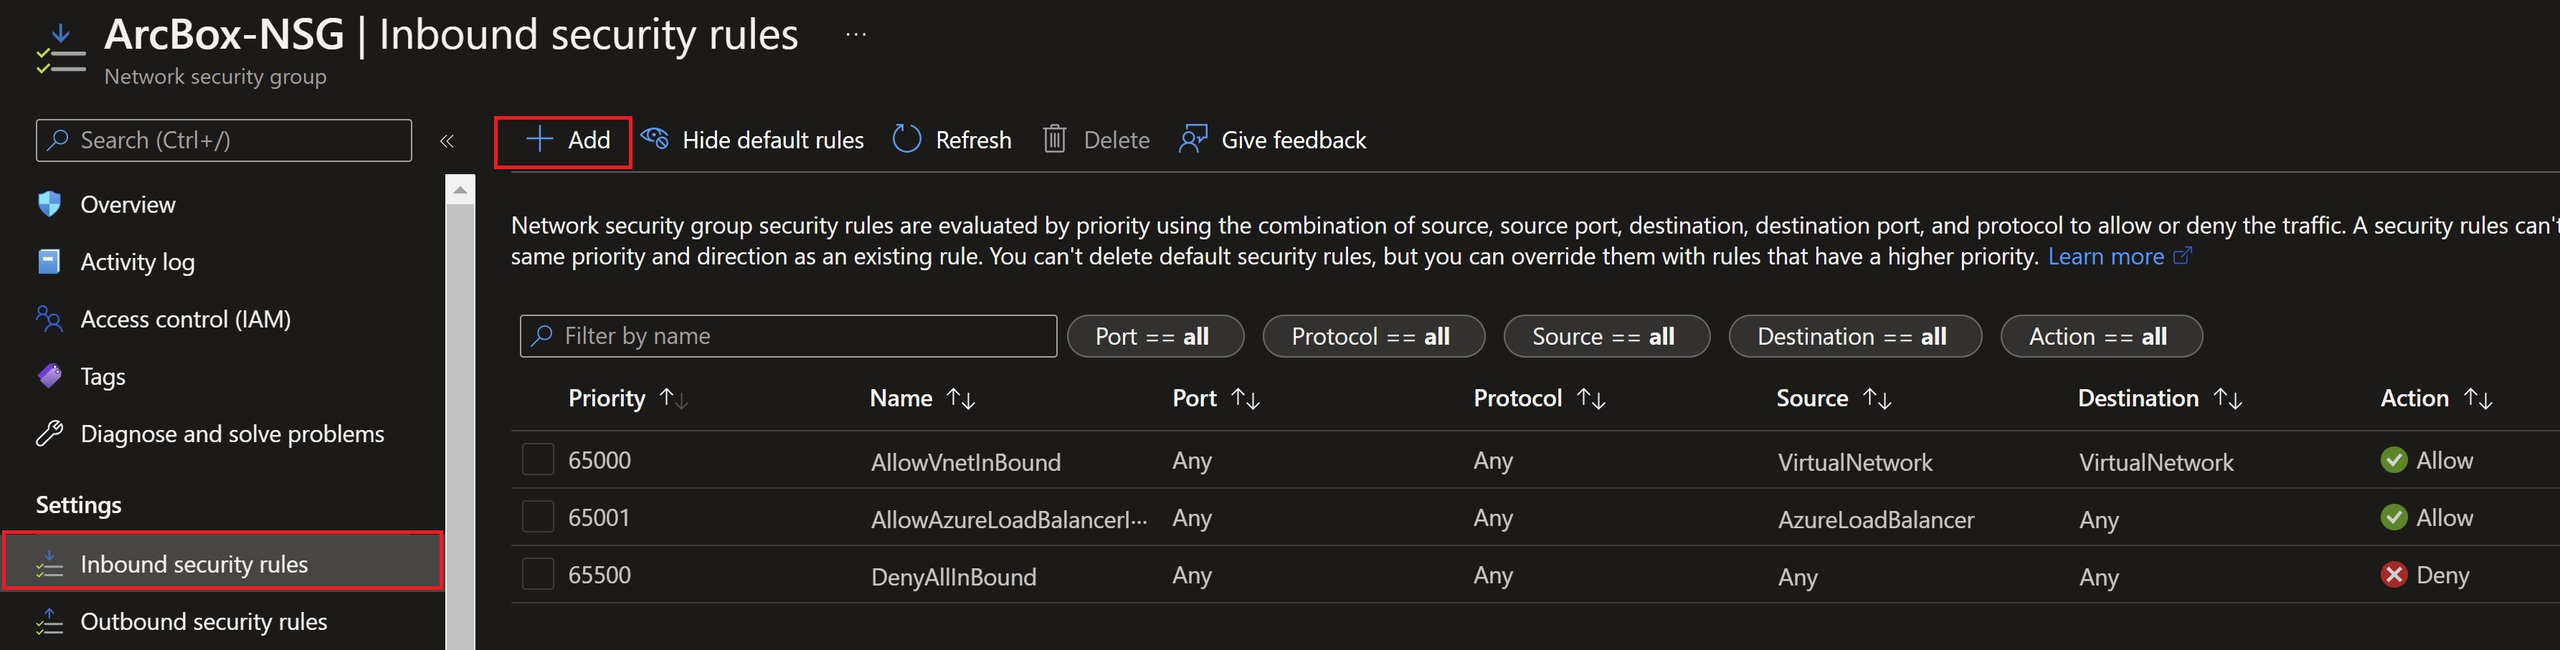
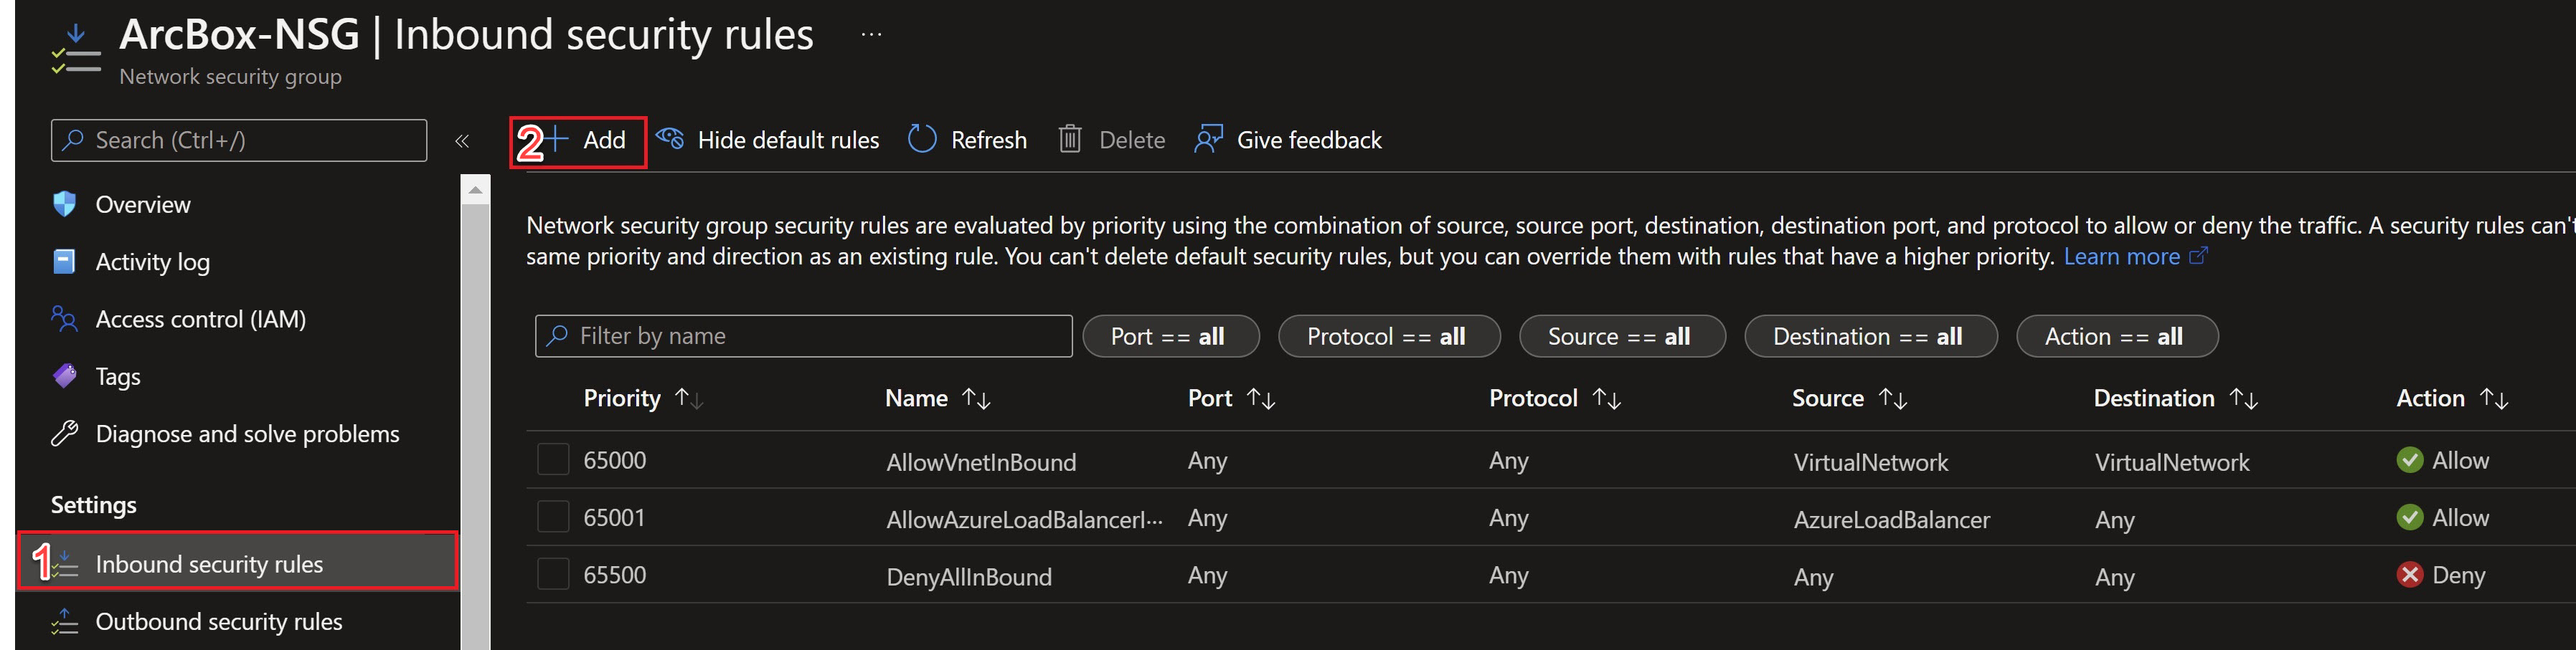
readme updates and screenshot fixes

diff --git a/docs/azure_jumpstart_arcbox/DevOps/_index.md b/docs/azure_jumpstart_arcbox/DevOps/_index.md
@@ -63,11 +63,11 @@ ArcBox deploys five GitOps configurations onto the _ArcBox-CAPI-Data_ cluster:
 - Namespace scope config to deploy the "Bookstore" application open service mesh traffic split policies.
 - Namespace scope config to deploy the "Hello-Arc" web application.
 
-### KeyVault integration
+### Key Vault integration
 
 The Azure Key Vault Provider for Secrets Store CSI Driver allows for the integration of Azure Key Vault as a secrets store with a Kubernetes cluster via a [CSI volume](https://kubernetes-csi.github.io/docs/).
 
-ArcBox deploys Azure Key Vault as part of the infrastructure provisioning. Also, it will hook the _ArcBox-CAPI-Data_ cluster to Azure Key Vault by deploying the [Azure Key Vault Secrets Provider extension](https://docs.microsoft.com/azure/azure-arc/kubernetes/tutorial-akv-secrets-provider).  
+ArcBox deploys Azure Key Vault during the automation scripts that run after logging into _ArcBox-Client_ for the first time. The automation configures the _ArcBox-CAPI-Data_ cluster to Azure Key Vault by deploying the [Azure Key Vault Secrets Provider extension](https://docs.microsoft.com/azure/azure-arc/kubernetes/tutorial-akv-secrets-provider).  
 
 A self-signed certificate is synced from the Key Vault and configured as the secret for the Kubernetes ingress for the Bookstore and Hello-Arc applications.
 
@@ -77,7 +77,7 @@ ArcBox deploys several management and operations services that work with ArcBox'
 
 ### Hybrid Unified Operations
 
-ArcBox deploys several management and operations services that work with ArcBox's Azure Arc resources. These resources include an an Azure Automation account, an Azure Log Analytics workspace with the Update Management solution, an Azure Monitor workbook, Azure Policy assignments for deploying Log Analytics agents on Windows and Linux Azure Arc-enabled servers, Azure Policy assignment for adding tags to resources, and a storage account used for staging resources needed for the deployment automation.
+ArcBox deploys several management and operations services that work with ArcBox's Azure Arc resources. These resources include an an Azure Automation account, an Azure Log Analytics workspace, an Azure Monitor workbook, Azure Policy assignments for deploying Kubernetes cluster monitoring and security extensions on the included clusters, Azure Policy assignment for adding tags to resources, and a storage account used for staging resources needed for the deployment automation.
 
 ## ArcBox Azure Consumption Costs
 
@@ -140,15 +140,6 @@ ArcBox uses an advanced automation flow to deploy and configure all necessary re
 
   ![Screenshot showing az vm list-usage](./azvmlistusage.png)
 
-- Register necessary Azure resource providers by running the below commands.
-
-  ```shell
-  az provider register --namespace Microsoft.GuestConfiguration --wait
-  az provider register --namespace Microsoft.Kubernetes --wait
-  az provider register --namespace Microsoft.KubernetesConfiguration --wait
-  az provider register --namespace Microsoft.ExtendedLocation --wait
-  ```
-
 - Fork the [sample applications GitHub repo](https://github.com/microsoft/azure-arc-jumpstart-apps) to your own GitHub account. You will use this forked repo to make changes to the sample apps that will be applied using GitOps configurations. The name of your GitHub account is passed as a parameter to the template files so take note of your GitHub user name.
 
   ![Screenshot showing forking sample apps repo](./apps_fork1.png)
@@ -199,7 +190,7 @@ ArcBox uses an advanced automation flow to deploy and configure all necessary re
 
     > **NOTE: The Jumpstart scenarios are designed with as much ease of use in-mind and adhering to security-related best practices whenever possible. It is optional but highly recommended to scope the service principal to a specific [Azure subscription and resource group](https://docs.microsoft.com/cli/azure/ad/sp?view=azure-cli-latest) as well considering using a [less privileged service principal account](https://docs.microsoft.com/azure/role-based-access-control/best-practices)**
 
-- [Generate SSH Key](https://help.github.com/articles/generating-a-new-ssh-key-and-adding-it-to-the-ssh-agent/) (or use existing ssh key)
+- [Generate SSH Key](https://help.github.com/articles/generating-a-new-ssh-key-and-adding-it-to-the-ssh-agent/) (or use existing ssh key). The SSH key is used to configure secure access to the Linux virtual machines that are used to run the Kubernetes clusters.
 
   ```shell
   ssh-keygen -t rsa -b 4096 -C "your_email@example.com"
@@ -233,8 +224,6 @@ ArcBox uses an advanced automation flow to deploy and configure all necessary re
   - _`logAnalyticsWorkspaceName`_ - Unique name for the ArcBox Log Analytics workspace
   - _`flavor`_ - Use the value "DevOps" to specify that you want to deploy the DevOps flavor of ArcBox
   - _`githubUser`_ - Specify the name of your GitHub account where you cloned the Sample Apps repo
-  - _`githubAccount`_ - leave default as "microsoft"
-  - _`githubBranch`_ - leave default as "arcbox_devops"
 
   ![Screenshot showing example parameters](./parameters_bugbash.png)
 
@@ -276,8 +265,6 @@ ArcBox uses an advanced automation flow to deploy and configure all necessary re
   - _`logAnalyticsWorkspaceName`_ - Unique name for the ArcBox Log Analytics workspace
   - _`flavor`_ - Use the value "DevOps" to specify that you want to deploy the Devops flavor of ArcBox
   - _`githubUser`_ - Specify the name of your GitHub account where you cloned the Sample Apps repo
-  - _`githubAccount`_ - leave default as "microsoft"
-  - _`githubBranch`_ - leave default as "arcbox_devops"
 
   ![Screenshot showing example parameters](./parameters_bugbash.png)
 
@@ -324,8 +311,6 @@ ArcBox uses an advanced automation flow to deploy and configure all necessary re
   - **_`client_admin_password`_** - Admin password for Windows VMs. Password must have 3 of the following: 1 lower case character, 1 upper case character, 1 number, and 1 special character. The value must be between 12 and 123 characters long.
   - **_`workspace_name`_** - Unique name for the ArcBox Log Analytics workspace
   - **_`githubUser`_** - Specify the name of your GitHub account where you cloned the Sample Apps repo
-  - **_`githubAccount`_** - leave default as "microsoft"
-  - **_`githubBranch`_** - leave default as "arcbox_devops"
 
   > **NOTE: Any variables in bold are required. If any optional parameters are not provided, defaults will be used.**
 
@@ -374,7 +359,7 @@ By design, ArcBox does not open port 3389 on the network security group. Therefo
 
   ![Screenshot showing adding a new inbound security rule](./Nsgb_add_rule.png)
 
-- Specify the IP address that you will be connecting from and select RDP as the service with "Allow" set as the action.
+- Specify the IP address that you will be connecting from and select RDP as the service with "Allow" set as the action. You can retrieve your public IP address by accessing [https://icanhazip.com](https://icanhazip.com) or [https://whatismyip.com](https://whatismyip.com).
 
   ![Screenshot showing adding a new allow RDP inbound security rule](./Nsg_add_Rdp_rule.png)
 
@@ -384,7 +369,7 @@ By design, ArcBox does not open port 3389 on the network security group. Therefo
 
 #### Connect using Azure Bastion
 
-- If you have chosen to deploy Azure Bastion in the ARM template, use it to connect to the VM.
+- If you have chosen to deploy Azure Bastion in your deployment, use it to connect to the VM.
 
   ![Screenshot showing connecting to the VM using Bastion](./bastion_connect.png)
 
@@ -392,7 +377,7 @@ By design, ArcBox does not open port 3389 on the network security group. Therefo
 
 #### Connect using just-in-time access (JIT)
 
-If you already have Microsoft Defender for Servers enabled on your subscription and would like to use JIT to access the Client VM, use the following steps:
+If you already have [Microsoft Defender for Cloud](https://docs.microsoft.com/en-us/azure/defender-for-cloud/just-in-time-access-usage?tabs=jit-config-asc%2Cjit-request-asc) enabled on your subscription and would like to use JIT to access the Client VM, use the following steps:
 
 - In the Client VM configuration pane, enable just-in-time. This will enable the default settings.
 
@@ -430,7 +415,7 @@ After deployment is complete, it's time to start exploring ArcBox. Most interact
 
   ![Screenshot showing Hello-Arc App](./capi_keyvault03.png)
 
-- Optionally, validate the certificate details.
+- Validate the certificate details.
 
   ![Screenshot showing Hello-Arc certificate](./capi_keyvault04.png)
 
@@ -768,7 +753,7 @@ Occasionally deployments of ArcBox may fail at various stages. Common reasons fo
 
       ![Screenshot showing SSH public key example](./ssh_example.png)
 
-- Not enough vCPU quota available in your target Azure region - check vCPU quota and ensure you have at least XXXX available. See the [prerequisites](#prerequisites) section for more details.
+- Not enough vCPU quota available in your target Azure region - check vCPU quota and ensure you have at least 52 available. See the [prerequisites](#prerequisites) section for more details.
 - Target Azure region does not support all required Azure services - ensure you are running ArcBox in one of the supported regions listed in the above section "ArcBox Azure Region Compatibility".
 
 ### Exploring logs from the _ArcBox-Client_ virtual machine
@@ -812,7 +797,3 @@ In the case of a failed deployment, pointing to a failure in either the _ubuntuR
   ![Screenshot showing az login error](./az_login_error.png)
 
 If you are still having issues deploying ArcBox, please [submit an issue](https://github.com/microsoft/azure_arc/issues/new/choose) on GitHub and include a detailed description of your issue, the Azure region you are deploying to, the flavor of ArcBox you are trying to deploy. Inside the _C:\ArcBox\Logs_ folder you can also find instructions for uploading your logs to an Azure storage account for review by the Jumpstart team.
-
-## Known issues
-
-- None at this time
